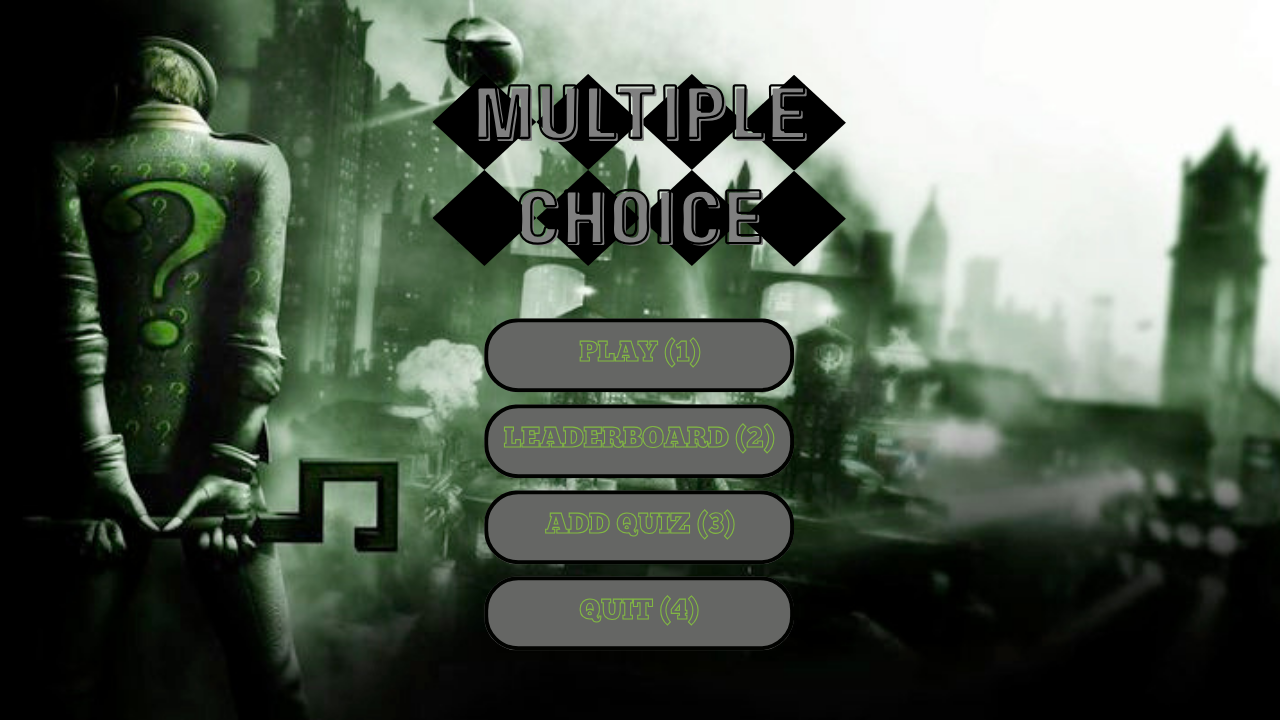
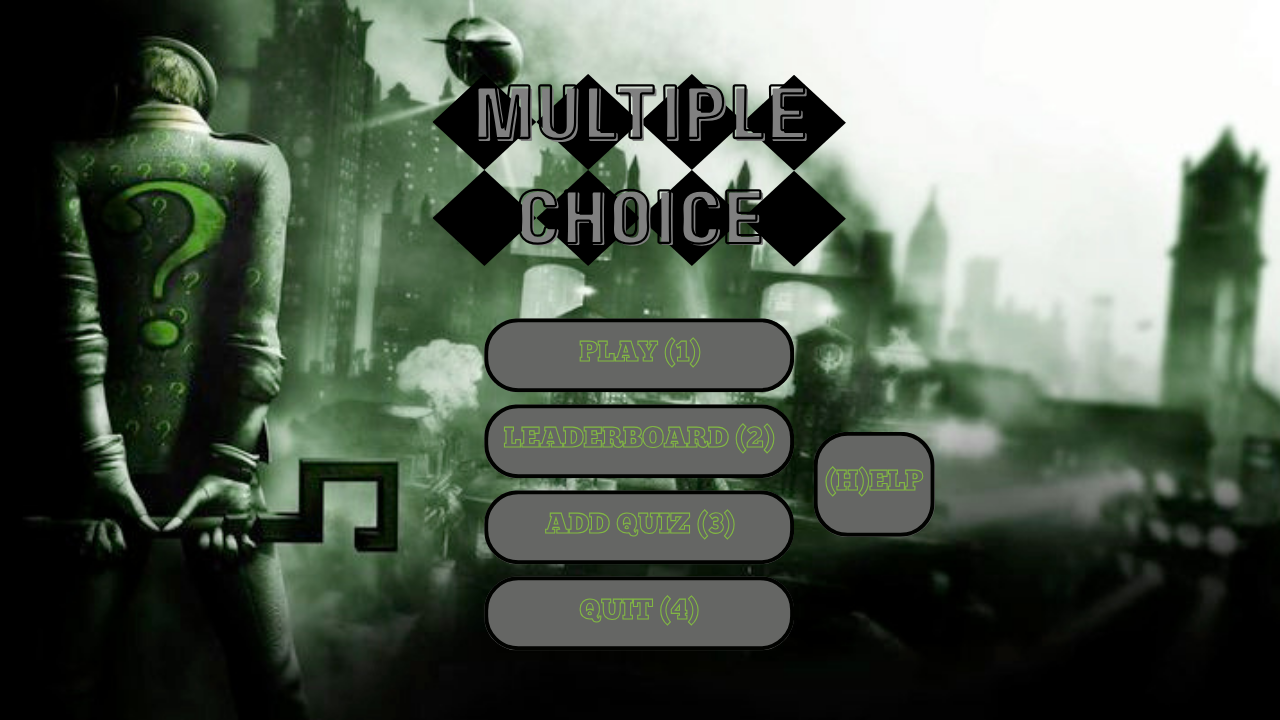
Capped leaderboard to 10, randomized added % from 1-1000 for statitan cheat, added help feature

Changed region(s): [[0.625, 0.5806, 0.75, 0.7639]]

diff --git a/CPTCarsten.java b/CPTCarsten.java
@@ -4,7 +4,7 @@ import java.awt.image.BufferedImage;
 
 public class CPTCarsten{ 
 	public static void main(String[] args){
-		Console con = new Console(1280,720);
+		Console con = new Console("Multiple Choice",1280,720);
 		
 		String strName;
 		con.println("What is your name?"); 
@@ -44,6 +44,7 @@ public class CPTCarsten{
 				}
 				int intQuestionCount = intLineCount / 7;
 				countQuestions.close(); 
+				System.out.println("# of questions: " + intQuestionCount);
 
 				// Step 2: Create 2D array [# of questions][8 columns] (one extra for the image) 
 				String[][] strQuiz = new String[intQuestionCount][8];
@@ -69,6 +70,7 @@ public class CPTCarsten{
 							String[] temp = strQuiz[j];
 							strQuiz[j] = strQuiz[j + 1];
 							strQuiz[j + 1] = temp;
+							System.out.println("Swap " + strQuiz[j][0] + " with " + strQuiz[j + 1][0]);
 						}
 					}
 				}
@@ -108,8 +110,10 @@ public class CPTCarsten{
 				con.fillRect(0,80,200, 200);
 				con.clear();
 				
+				System.out.println(strName);
 				if(strName.equalsIgnoreCase("statitan")){ 
-					intPercentage+=9999; 
+					int intStatitan = (int)(Math.random() * (1000 - 1 + 1)) + 1;
+					intPercentage+=intStatitan; 
 				}
 				
 				BufferedImage imgComplete = con.loadImage("COMPLETE.png");
@@ -130,7 +134,7 @@ public class CPTCarsten{
 				con.setDrawColor(Color.BLACK); 
 				con.fillRect(0,0,1280, 720);
 				
-				con.println("Leaderboard:"); 
+				con.println("Leaderboard (Top 10):"); 
 				
 				TextInputFile leaderboardPrint = new TextInputFile("leaderboard.txt"); 
 				String strLBName;
@@ -168,7 +172,8 @@ public class CPTCarsten{
 					}
 				}
 				
-				for (int i = 0; i < leaderboard.length; i++) {
+				int intMaxLength = Math.min(10, leaderboard.length);
+				for (int i = 0; i < intMaxLength; i++) {
 					con.println((i + 1) + ". " + leaderboard[i][0] + ", " + leaderboard[i][1] + ", " + leaderboard[i][2] + " %");
 				}
 				
@@ -181,7 +186,7 @@ public class CPTCarsten{
 				
 				TextOutputFile quizname = new TextOutputFile("quizzes.txt",true);
 				String strQNUser; 
-				con.println("Enter Quiz Name (__.txt):"); 
+				con.println("Enter Quiz Name (include .txt at the end):"); 
 				strQNUser = con.readLine(); 
 				quizname.println(strQNUser); 
 				quizname.close();
@@ -246,7 +251,30 @@ public class CPTCarsten{
 				
 				con.println("\nPress any key to return to the main menu...");
 				con.getChar();
+				
+			}else if(chrMain=='h'){
+				con.setDrawColor(Color.BLACK); 
+				con.fillRect(0,0,1280, 720);
+				
+				con.println("Instructions:"); 
+				con.println("\nPlay:"); 
+				con.println("1. Enter the name of the desired quiz, make sure to include the .txt at the end"); 
+				con.println("2. Press the letter on your keyboard based on what you think the answer is (A/B/C/D),\ncapitalization does not matter"); 
+				con.println("3. Repeat until the end of the quiz which will show QUIZ COMPLETE along with your score"); 
+				con.println("4. Press any key to return to the main menu"); 
+				con.println("\nAdd Quiz:");
+				con.println("1. Enter what you want to name your quiz, make sure to include .txt at the end"); 
+				con.println("2. Type your question"); 
+				con.println("3. Type the 4 possible choices to choose from"); 
+				con.println("4. Enter the answer of the question (A/B/C/D), capitalization does not matter"); 
+				con.println("5. If you are done creating the quiz, enter STOP, capitalization does not matter as well"); 
+				con.println("6. Repeat this process until you finish creating the quiz"); 
+				con.println("7. Press any key to return to the main menu"); 
+			
+				con.println("\n\nPress any key to return to the main menu...");
+				con.getChar(); 
 			}
+			
 		}
 	}
 }
